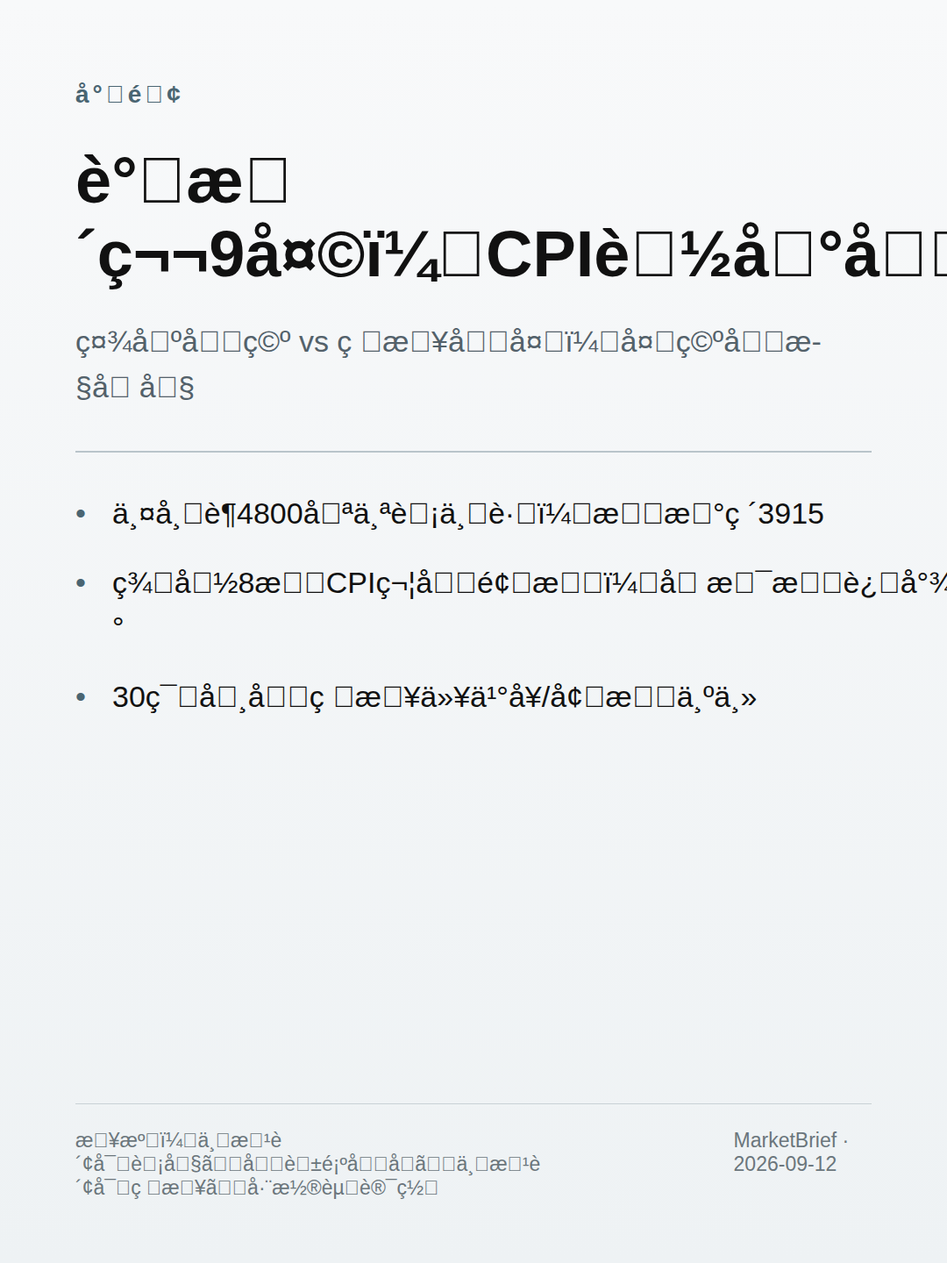
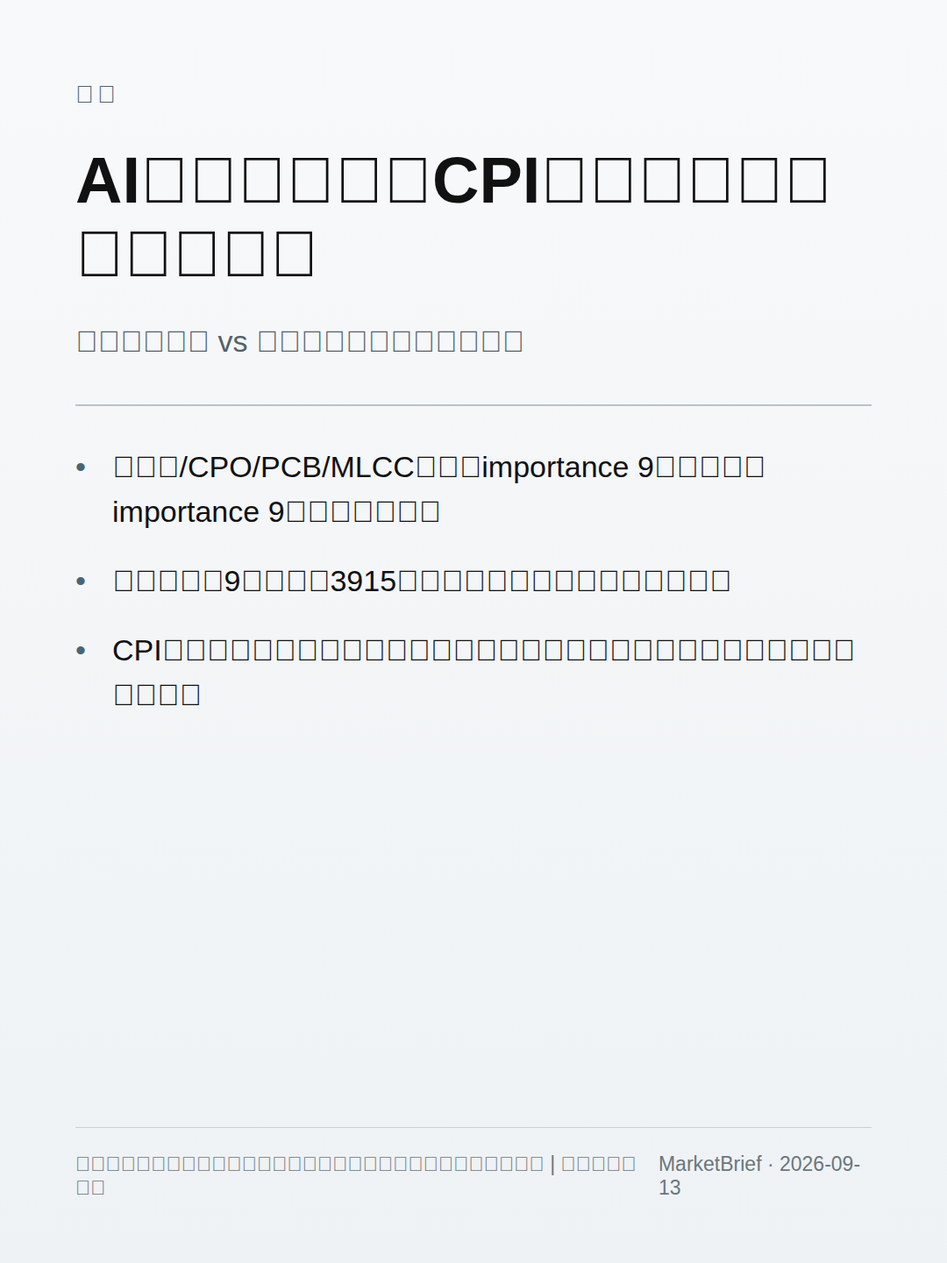
MarketBrief: refresh generated content

diff --git a/output/market-brief/cards/04.html b/output/market-brief/cards/04.html
@@ -2,4 +2,4 @@
 *{box-sizing:border-box}html,body{margin:0;width:1080px;height:1440px;background:#f5f6f7;color:#111;font-family:-apple-system,BlinkMacSystemFont,'Segoe UI','Noto Sans CJK SC','Microsoft YaHei',sans-serif}
 main{width:1080px;height:1440px;padding:92px 86px 72px;display:flex;flex-direction:column;background:linear-gradient(180deg,#f8f9fa,#eef2f4)}
 .k{font-size:28px;letter-spacing:4px;color:#4A6572;font-weight:700;margin-bottom:40px}h1{font-size:74px;line-height:1.14;margin:0 0 30px}.s{font-size:34px;line-height:1.55;color:#53616a;margin-bottom:46px}.r{height:2px;background:#b9c4ca;margin-bottom:44px}ul{list-style:none;padding:0;margin:0;display:grid;gap:28px}li{font-size:34px;line-height:1.5;padding-left:42px;position:relative}li:before{content:'•';position:absolute;left:0;color:#4A6572}.sp{flex:1}footer{border-top:1px solid #c9d1d5;padding-top:28px;color:#6b767c;font-size:23px;display:flex;justify-content:space-between;gap:24px}
-</style></head><body><main><div class="k">äºå®ä¸åæ§</div><h1>CPIç¬¦åé¢æï¼ä½&#x27;ä¿®å¤çªå£&#x27;æ¯äºå®è¿æ¯è§ç¹ï¼</h1><div class="s">CPIæ°æ®ä¸ºå®¢è§äºå®ï¼&#x27;ä¿®å¤çªå£&#x27;å¤æå±ç¤¾åºè§ç¹</div><div class="r"></div><ul><li>CPIæ°æ®ç¬¦åå¸åºé¢æï¼è·¨æ¥æºéªè¯ï¼</li><li>ç¤¾åºè®¤ä¸ºå æ¯è½å°åæè¿ä¿®å¤çªå£</li><li>å®è§æ°æ®ä¼ å¯¼åå¨æ¶æ»ï¼éæ´å¤å¬ååéå</li></ul><div class="sp"></div><footer><span>æ¥æºï¼ä¸æ¹è´¢å¯è¡å§ãåè±é¡ºåå | äºå®ä¸è§ç¹éåºå</span><span>MarketBrief · 2026-09-12</span></footer></main></body></html>
+</style></head><body><main><div class="k">事实与分歧</div><h1>CPI靴子：社区与机构的解读温差</h1><div class="s">同一数据，两种解读，短期方向的关键变量</div><div class="r"></div><ul><li>社区（东财股吧）：CPI符合预期但美长债收益率创逾18年新高，中性</li><li>社区（同花顺圈子）：加息落地后短期无估值压制因素，或迎修复窗口，中性</li><li>策略研报：输入性通胀回升，欧央行启动加息，importance 9偏空</li><li>分歧核心：社区认为靴子落地利空出尽，策略研报认为输入性通胀持续压制</li><li>事实锚点：巨潮资讯网9月12日公告——*ST禾信重组、恺英网络参股Wemade、翱捷科技H股申请、中微公司高管减持</li></ul><div class="sp"></div><footer><span>来源：东财股吧、同花顺圈子、东财策略研报、巨潮资讯网 | 公告为标题级信息，未读取PDF正文，无法判断具体细节</span><span>MarketBrief · 2026-09-13</span></footer></main></body></html>

diff --git a/output/market-brief/cards/05.html b/output/market-brief/cards/05.html
@@ -2,4 +2,4 @@
 *{box-sizing:border-box}html,body{margin:0;width:1080px;height:1440px;background:#f5f6f7;color:#111;font-family:-apple-system,BlinkMacSystemFont,'Segoe UI','Noto Sans CJK SC','Microsoft YaHei',sans-serif}
 main{width:1080px;height:1440px;padding:92px 86px 72px;display:flex;flex-direction:column;background:linear-gradient(180deg,#f8f9fa,#eef2f4)}
 .k{font-size:28px;letter-spacing:4px;color:#4A6572;font-weight:700;margin-bottom:40px}h1{font-size:74px;line-height:1.14;margin:0 0 30px}.s{font-size:34px;line-height:1.55;color:#53616a;margin-bottom:46px}.r{height:2px;background:#b9c4ca;margin-bottom:44px}ul{list-style:none;padding:0;margin:0;display:grid;gap:28px}li{font-size:34px;line-height:1.5;padding-left:42px;position:relative}li:before{content:'•';position:absolute;left:0;color:#4A6572}.sp{flex:1}footer{border-top:1px solid #c9d1d5;padding-top:28px;color:#6b767c;font-size:23px;display:flex;justify-content:space-between;gap:24px}
-</style></head><body><main><div class="k">ç»è®ºä¸é£é©</div><h1>å¤ç©ºåæ§ææ¾ï¼å³æ³¨èµéæµåä¸æ¿çéå</h1><div class="s">ç¤¾åºåç©ºãç æ¥åå¤ï¼CPIä¸ºå®è§éç¹ä½ä¼ å¯¼éè§å¯</div><div class="r"></div><ul><li>å³æ³¨CPIè½å°åå®éèµéæµå¥æåµ</li><li>å³æ³¨AIç¡¬ä»¶æ¿ååååçä¸»çº¿éæ©</li><li>å³æ³¨ä¸æ¥ä¸ç»©é«å¢æ¿åçæç»æ§éªè¯</li></ul><div class="sp"></div><footer><span>é£é©æç¤ºï¼æ¬æä¸æææèµå»ºè®®ï¼å¸åºæé£é©ï¼æèµéè°¨æ</span><span>MarketBrief · 2026-09-12</span></footer></main></body></html>
+</style></head><body><main><div class="k">结论与风险</div><h1>短期情绪与中期业绩的权重之争</h1><div class="s">AI硬件链偏多信号强但外部风险未消，风格再平衡窗口待验证</div><div class="r"></div><ul><li>偏多信号：AI硬件链三源共振、存储提价业绩超预期、低位板块补涨逻辑成立</li><li>偏空信号：CPI输入性通胀回升、指数调整第9天情绪低迷、美国AI限制再收紧</li><li>关键分歧：CPI解读方向相反、研报样本偏多缺乏对照、科士达帖软文嫌疑</li><li>事实锚点：巨潮资讯网公告为标题级信息，*ST禾信重组存在审批不确定性</li><li>风险提示：社区来源为主观情绪非机构研报，研报仅含摘要标题无正文数据，部分帖子日期为2023年时效性需确认</li></ul><div class="sp"></div><footer><span>来源：全部7个来源 | 本文不构成任何投资建议，股市有风险，投资需谨慎</span><span>MarketBrief · 2026-09-13</span></footer></main></body></html>

diff --git a/output/market-brief/cards/03.html b/output/market-brief/cards/03.html
@@ -2,4 +2,4 @@
 *{box-sizing:border-box}html,body{margin:0;width:1080px;height:1440px;background:#f5f6f7;color:#111;font-family:-apple-system,BlinkMacSystemFont,'Segoe UI','Noto Sans CJK SC','Microsoft YaHei',sans-serif}
 main{width:1080px;height:1440px;padding:92px 86px 72px;display:flex;flex-direction:column;background:linear-gradient(180deg,#f8f9fa,#eef2f4)}
 .k{font-size:28px;letter-spacing:4px;color:#4A6572;font-weight:700;margin-bottom:40px}h1{font-size:74px;line-height:1.14;margin:0 0 30px}.s{font-size:34px;line-height:1.55;color:#53616a;margin-bottom:46px}.r{height:2px;background:#b9c4ca;margin-bottom:44px}ul{list-style:none;padding:0;margin:0;display:grid;gap:28px}li{font-size:34px;line-height:1.5;padding-left:42px;position:relative}li:before{content:'•';position:absolute;left:0;color:#4A6572}.sp{flex:1}footer{border-top:1px solid #c9d1d5;padding-top:28px;color:#6b767c;font-size:23px;display:flex;justify-content:space-between;gap:24px}
-</style></head><body><main><div class="k">ç æ¥</div><h1>30ç¯ç æ¥å¯éçå¤ï¼ä¸æ¥ä¸ç»©é«å¢æä¸»çº¿</h1><div class="s">æµ·å¤æ©å¼ ãAIæ¶²å·ãæ°è½æºçµæ± ãåå·¥æ°æææ¯æ°å»¶ç»</div><div class="r"></div><ul><li>æ¯äºè¿ªãæ³å·¥çå¼ºè°æµ·å¤æ¶å¥å¿«éå¢é¿</li><li>è±ç»´åè¡ææ¿å±å½°æ¾æ¶²å·é¾å¤´ä¿¡å¿</li><li>äº¿çº¬éè½å¨å+å¨è½åºè´§é«å¢</li></ul><div class="sp"></div><footer><span>æ¥æºï¼ä¸æ¹è´¢å¯ç æ¥ | è¯çº§éä¸äºä¹°å¥/å¢æï¼åå¨ä¹è§åå·®</span><span>MarketBrief · 2026-09-12</span></footer></main></body></html>
+</style></head><body><main><div class="k">研报</div><h1>存储提价与风格再平衡：业绩超预期但板块分化</h1><div class="s">视源股份/帝科股份存储放量，低位补涨窗口是否打开</div><div class="r"></div><ul><li>存储提价：视源股份、帝科股份中报提及存储业务快速放量/提价，业绩超预期</li><li>板块分化：风华高科涨停+10%、金安国纪+7.86%，但长鑫科技-0.82%</li><li>风格再平衡：有色、化工、券商、创新药、储能等低位板块有望阶段性补涨</li><li>储能：科士达中报净利增106%-152%，但评论区质疑软文嫌疑</li><li>氟化工：昊华科技景气兑现，永和股份制冷剂高景气+氟聚合物放量</li></ul><div class="sp"></div><footer><span>来源：东财研报聚合页、东财行业研报、雪球、同花顺圈子 | 科士达帖需交叉验证，研报样本偏多缺乏对照</span><span>MarketBrief · 2026-09-13</span></footer></main></body></html>

diff --git a/output/market-brief/cards/02.html b/output/market-brief/cards/02.html
@@ -2,4 +2,4 @@
 *{box-sizing:border-box}html,body{margin:0;width:1080px;height:1440px;background:#f5f6f7;color:#111;font-family:-apple-system,BlinkMacSystemFont,'Segoe UI','Noto Sans CJK SC','Microsoft YaHei',sans-serif}
 main{width:1080px;height:1440px;padding:92px 86px 72px;display:flex;flex-direction:column;background:linear-gradient(180deg,#f8f9fa,#eef2f4)}
 .k{font-size:28px;letter-spacing:4px;color:#4A6572;font-weight:700;margin-bottom:40px}h1{font-size:74px;line-height:1.14;margin:0 0 30px}.s{font-size:34px;line-height:1.55;color:#53616a;margin-bottom:46px}.r{height:2px;background:#b9c4ca;margin-bottom:44px}ul{list-style:none;padding:0;margin:0;display:grid;gap:28px}li{font-size:34px;line-height:1.5;padding-left:42px;position:relative}li:before{content:'•';position:absolute;left:0;color:#4A6572}.sp{flex:1}footer{border-top:1px solid #c9d1d5;padding-top:28px;color:#6b767c;font-size:23px;display:flex;justify-content:space-between;gap:24px}
-</style></head><body><main><div class="k">çç¹</div><h1>å¸åºè°æ´ç¬¬9å¤©ï¼æç»ªä½è¿·</h1><div class="s">è¶4800åªä¸ªè¡ä¸è·ï¼è·åå¢å¤ï¼åå¼¹é ææé</div><div class="r"></div><ul><li>ä¸¤å¸æäº¤é¢1.97ä¸äº¿ï¼è¾åæ¥æ¾é3248äº¿</li><li>å®¹éçåä½ï¼ç§æè¡å±é¨æ±å¢</li><li>ç¤¾åºæç»ªåç©ºï¼æè¿°ä¸º&#x27;æç»ªä½æ´¼&#x27;</li></ul><div class="sp"></div><footer><span>æ¥æºï¼åè±é¡ºååãä¸æ¹è´¢å¯è¡å§ | ç¤¾åºè§ç¹ï¼éæèµå»ºè®®</span><span>MarketBrief · 2026-09-12</span></footer></main></body></html>
+</style></head><body><main><div class="k">热点</div><h1>AI硬件链：三源共振的偏多信号</h1><div class="s">FCC靴子落地+电子布提价+MLCC供需缺口，中报催化后轮动窗口</div><div class="r"></div><ul><li>东财股吧：光通信/光模块importance 9偏多，FCC靴子落地缓解担忧</li><li>雪球：CPO板块热度标签明确，中际旭创热度813、长飞光纤+8.78%</li><li>同花顺圈子：PCB/MLCC/光模块轮动活跃，中报业绩催化后核心标的或迎上车机会</li><li>研报端：顺络电子TLVR电感、英维克液冷、用友网络AI研发均获偏多评级</li><li>分歧：策略研报指出美国对中国AI限制再收紧，AI链涨价推动价格数据回升</li></ul><div class="sp"></div><footer><span>来源：东财股吧、雪球、同花顺圈子、东财研报聚合页、东财行业研报 | 研报样本均为买入/增持，存在样本偏差</span><span>MarketBrief · 2026-09-13</span></footer></main></body></html>

diff --git a/output/market-brief/cards/01.html b/output/market-brief/cards/01.html
@@ -2,4 +2,4 @@
 *{box-sizing:border-box}html,body{margin:0;width:1080px;height:1440px;background:#f5f6f7;color:#111;font-family:-apple-system,BlinkMacSystemFont,'Segoe UI','Noto Sans CJK SC','Microsoft YaHei',sans-serif}
 main{width:1080px;height:1440px;padding:92px 86px 72px;display:flex;flex-direction:column;background:linear-gradient(180deg,#f8f9fa,#eef2f4)}
 .k{font-size:28px;letter-spacing:4px;color:#4A6572;font-weight:700;margin-bottom:40px}h1{font-size:74px;line-height:1.14;margin:0 0 30px}.s{font-size:34px;line-height:1.55;color:#53616a;margin-bottom:46px}.r{height:2px;background:#b9c4ca;margin-bottom:44px}ul{list-style:none;padding:0;margin:0;display:grid;gap:28px}li{font-size:34px;line-height:1.5;padding-left:42px;position:relative}li:before{content:'•';position:absolute;left:0;color:#4A6572}.sp{flex:1}footer{border-top:1px solid #c9d1d5;padding-top:28px;color:#6b767c;font-size:23px;display:flex;justify-content:space-between;gap:24px}
-</style></head><body><main><div class="k">å°é¢</div><h1>è°æ´ç¬¬9å¤©ï¼CPIè½å°åè½å¦è¿æ¥ä¿®å¤çªå£ï¼</h1><div class="s">ç¤¾åºåç©º vs ç æ¥åå¤ï¼å¤ç©ºåæ§å å§</div><div class="r"></div><ul><li>ä¸¤å¸è¶4800åªä¸ªè¡ä¸è·ï¼ææ°ç ´3915</li><li>ç¾å½8æCPIç¬¦åé¢æï¼å æ¯æè¿å°¾å£°</li><li>30ç¯å¸åç æ¥ä»¥ä¹°å¥/å¢æä¸ºä¸»</li></ul><div class="sp"></div><footer><span>æ¥æºï¼ä¸æ¹è´¢å¯è¡å§ãåè±é¡ºååãä¸æ¹è´¢å¯ç æ¥ãå·¨æ½®èµè®¯ç½</span><span>MarketBrief · 2026-09-12</span></footer></main></body></html>
+</style></head><body><main><div class="k">封面</div><h1>AI硬件链热捧与CPI靴子：社区与机构的温差</h1><div class="s">三源共振偏多 vs 策略研报偏空，温差有多大</div><div class="r"></div><ul><li>光模块/CPO/PCB/MLCC：社区importance 9偏多，研报importance 9偏多，三源一致</li><li>指数调整第9天，跌破3915点，社区焦虑与策略研报偏空共振</li><li>CPI解读方向相反：社区认为靴子落地利空出尽，策略研报认为输入性通胀持续压制</li></ul><div class="sp"></div><footer><span>来源：东财股吧、雪球、同花顺圈子、东财研报聚合页、东财策略研报 | 不构成投资建议</span><span>MarketBrief · 2026-09-13</span></footer></main></body></html>

diff --git a/output/market-brief/latest.md b/output/market-brief/latest.md
@@ -1,55 +1,56 @@
-# è°æ´ç¬¬9å¤©ï¼CPIè½å°åå¸åºè½å¦è¿æ¥ä¿®å¤çªå£ï¼
+# AI硬件链热捧与CPI靴子：社区与机构的温差有多大
 
-> ä¸¤å¸è¶4800åªä¸ªè¡ä¸è·ï¼ææ°è·ç ´3915ç¹ï¼è°æ´è¿å¥ç¬¬9å¤©ãç¾å½8æCPIç¬¦åé¢æï¼è¢«è§ä¸ºå æ¯æåä¸åæ¼å¾ãAIç¡¬ä»¶æ¿åè½®å¨æ´»è·ä½åæ§å å¤§ï¼30ç¯å¸åç æ¥ä»¥ä¹°å¥/å¢æä¸ºä¸»ãç¤¾åºæç»ªåè°¨æï¼ç æ¥è§ç¹åä¹è§ï¼å¤ç©ºåæ§ææ¾ã
+> 光模块、CPO、存储提价三箭齐发，三大社区来源与近60篇研报一致看多AI硬件链；但策略研报对CPI与加息预期保持警惕，社区情绪与机构判断出现明显分化。指数调整第9天，风格再平衡窗口是否打开？
 
-## å¸åºç°ç¶ï¼è°æ´ç¬¬9å¤©ï¼æç»ªä½è¿·
+## 一、AI硬件链：三源共振的偏多信号
 
-æªè³ææ°äº¤ææ¥ï¼ä¸¤å¸è¶4800åªä¸ªè¡ä¸è·ï¼ææ°è·ç ´3915ç¹ï¼è°æ´è¿å¥ç¬¬9å¤©ãè·åæ°éå¢å¤ï¼åå¼¹ä¸»è¦é ææéè¡å®ç°ï¼å®¹éçææ¾éä½ãä¸¤å¸æäº¤é¢1.97ä¸äº¿åï¼è¾åæ¥æ¾é3248äº¿åï¼Windæ°æ®ï¼ï¼ä½ç¼©éèæ¯ä¸å®¹éçåä½ï¼ç§æè¡å±é¨æ±å¢ç¹å¾ææ¾ã
+光通信与CPO板块是当前社区与研报端最一致的偏多方向。东财股吧将光通信/光模块列为importance 9的偏多主题，信号包括FCC靴子落地缓解担忧、电子布提价加速、MLCC供需缺口延续。雪球热股榜上CPO板块热度标签明确出现，中际旭创热度813排第十，长飞光纤涨8.78%。同花顺圈子同样给出importance 9的偏多判断，PCB、MLCC、光模块等AI硬件方向轮动活跃。
 
-ç¤¾åºæç»ªæ®éåç©ºï¼æèµèæè¿°ä¸º'æç»ªä½æ´¼'ãé¨åæé¡¾æåºï¼é«ä½ç§æè¡è¿å¥éè¡ååé¶æ®µï¼æè²éå±ãåå·¥ãå¸åãåæ°è¯ãå¨è½çè¢«éææ¿åææé¶æ®µæ§è¡¥æ¶¨ã
+研报端同样聚焦。东财研报聚合页29篇个股研报中，顺络电子TLVR电感与钽电容构筑AI增量、英维克液冷龙头股权激励、用友网络加大AI研发均获偏多评级。行业研报30篇中，AI与智能科技方向importance 9偏多，AI模型密集迭代价格下行、办公应用起量、AI驱动SDLC安全生态构建。
 
-## å®è§éç¹ï¼CPIç¬¦åé¢æï¼å æ¯å¨ææè¿å°¾å£°
+但需注意：策略研报指出美国对中国AI限制再收紧，AI链涨价推动价格数据回升，这与社区偏多形成分歧。研报样本均为买入/增持，缺乏中性或偏空观点，存在样本偏差。
 
-ç¾å½8æCPIæ°æ®ç¬¦åå¸åºé¢æï¼è¢«ç¤¾åºè§ä¸ºå æ¯ç'æåä¸åæ¼å¾'ãå¤å®¶æé¡¾è®¤ä¸ºï¼å æ¯è½å°åçæä¼°å¼åå¶æ¶é¤ï¼å¸åºæè¿æ¥ä¿®å¤çªå£ã
+## 二、大盘情绪：社区焦虑与研报谨慎的共振
 
-éè¦æåºçæ¯ï¼CPIæ°æ®æ¬èº«ä¸ºå®¢è§äºå®ï¼ä½'ä¿®å¤çªå£'çå¤æå±äºç¤¾åºè§ç¹ï¼å¹¶éç¡®å®æ§ç»è®ºãå®è§æ°æ®å¯¹å¸åºçä¼ å¯¼åå¨æ¶æ»ï¼ä¸å¸åºæç»ªä¿®å¤éè¦æ´å¤å¬ååéåã
+指数调整已进入第9天，跌破前低3915点。东财股吧多帖反映焦虑沮丧，高价股补跌拖累股指，恒生超预期下跌。同花顺圈子指出反弹靠权重托但情绪未好转，跌停数量增多，横竖操作难度大。策略研报同样给出偏空信号：三大指数收绿，两市不足千家上涨，等待外部靴子落地。
 
-## æ¿åè½®å¨ï¼AIç¡¬ä»¶æ´»è·ä½åæ§å å¤§
+然而研报端中报业绩偏多——全A盈利加速上行，科技与资源景气引领，港股业绩改善幅度较大。策略端讨论哑铃策略持续性，分歧在于短期情绪与中期业绩的权重。
 
-AIç¡¬ä»¶æ¿åè½®å¨æ´»è·ï¼PCBãMLCCãCPOãåäºè¿çåæ¯äº¤æ¿æ´»è·ï¼é¨åä¸ªè¡æ¶¨åãä½åååå¼¹ååæ§å å¤§ï¼é«ä½ç§æè¡è¿å¥éè¡ååé¶æ®µã
+## 三、存储提价：业绩超预期但板块分化
 
-ç æ¥ç«¯åçå¥½AIæ¶²å·åºç¡è®¾æ½å éè½å°ãè±ç»´ååå¸è¡ææ¿å±å½°æ¾æ¶²å·é¾å¤´ä¿¡å¿ï¼äºæ´èªæ§æ¶²å·éè´è½å°ï¼åéè¯å¸çå¥½AIç åå¸å±ãç¤¾åºçååãç æ¥çæ¶²å·å éï¼å¯¹AIç¡¬ä»¶åé¨ç»æå¤æåå¨ä¸ä¸è´ã
+视源股份、帝科股份中报均提及存储业务快速放量/提价，业绩超预期。雪球半导体/存储板块出现分化：风华高科涨停+10%、金安国纪+7.86%，但长鑫科技-0.82%。存储提价的持续性缺乏产业链验证，板块内部分化值得关注。
 
-## ç æ¥è§ç¹ï¼30ç¯å¯éçå¤ï¼ä¸æ¥ä¸ç»©é«å¢æä¸»çº¿
+## 四、CPI靴子：社区与机构的解读温差
 
-2026å¹´9æ11æ¥ï¼ä¸æ¹è´¢å¯ç æ¥é¡µé¢åå¸30ç¯å¸åç æ¥ï¼ç»å¤§å¤æ°ç»åºä¹°å¥/å¢æè¯çº§ãæ é¢å¤å«'ä¸ç»©é«å¢''éå©é½å''çå©æ¹å'çè¡¨è¿°ã
+8月CPI数据公布后，社区与机构出现明显分歧。东财股吧认为CPI符合预期但美长债收益率创逾18年新高，给出中性判断。同花顺圈子认为加息落地后短期将无估值压制因素，市场或迎修复窗口，同样中性。但策略研报给出importance 9的偏空信号：输入性通胀回升，欧央行启动加息。
 
-æµ·å¤ä¸å¡æ©å¼ æä¸ºä¸»çº¿ï¼æ¯äºè¿ªãæ³å·¥ãç¨åç½ç»ãåº·è¯ºçç©ãä¸è¿æµ·ç¹çå¤ç¯æ¥åå¼ºè°æµ·å¤æ¶å¥å¿«éå¢é¿ï¼æ±½è½¦åºå£é«æ¯æ°ãæ°è½æºçµæ± äº§ä¸é¾æ¯æ°å»¶ç»ï¼äº¿çº¬éè½å¨å+å¨è½åºè´§é«å¢ï¼æ©æ·è¡ä»½éèå©æ¶¦åå¥½ãåå·¥æ°æææ¿åæ¯æ°åç°ï¼å£åç§ææ°åå·¥æ¯æ°åç°ï¼æ°¸åè¡ä»½å¶å·åé«æ¯æ°+æ°èåç©æ¾éã
+对CPI的解读方向相反——社区认为靴子落地后利空出尽，策略研报认为输入性通胀回升构成持续压制。这一分歧是短期市场方向的关键变量。
 
-ä½éæ³¨æï¼è¯çº§éä¸äºä¹°å¥/å¢æï¼åå¨åæ¹é¢ä¹è§åå·®ï¼ä¸æªåå«ç¤¾åºæç»ªä¸å®æ¹å¬åçäº¤åéªè¯ã
+## 五、风格再平衡：低位补涨窗口是否打开
 
-## å¬åå¨æï¼*STå¯ä¿¡éç»ãä¸å¾®å¬å¸åæ
+同花顺圈子指出低位优质传统行业逆市上涨，业绩正增长的有色、化工、券商、创新药、储能等有望阶段性补涨。东财股吧将储能板块列为importance 7偏多，科士达中报净利同比增106%-152%被称下一个宁德时代。但评论区质疑软文嫌疑，需交叉验证。
 
-å·¨æ½®èµè®¯ç½2026å¹´9æ12æ¥å¬åæ±æ»æ¾ç¤ºï¼*STå¯ä¿¡å¯éæ«é²å®¡è®¡ãè¯ä¼°ãé®è¯¢åå¤ãç¬ç«è´¢å¡é¡¾é®çå¤ä»½æä»¶ï¼æ¨è¿æ¶è´ä¸æµ·éè®¯ææ¯å¹¶åééå¥èµéãä¸å¾®å¬å¸è£äºé«ç®¡åæç»æå¬åï¼ä¸å¬æè²é¨åè£äºé«ç®¡åæ ¸å¿éª¨å¹²å¢æè®¡åæ¶é´è¿åè¿å±å¬åã
+研报端同样偏多：恩捷股份隔膜盈利能力持续向好，亿纬锂能动力+储能出货高增，昊华科技氟化工景气兑现，永和股份制冷剂高景气+氟聚合物放量。但研报样本偏多，缺乏中性或偏空对照。
 
-*STå¯ä¿¡ä¸ºSTè¡ï¼éç»åå¨ä¸ç¡®å®æ§ãé¨åå¬åä¸ºç¨åºæ§æä»¶ï¼æ³å¾æè§ä¹¦ãèªæ¥æ¥åï¼ï¼ä¿¡æ¯å«éæéã
+## 六、事实锚点与不确定性
 
-## å¤ç©ºåæ§ï¼ç¤¾åºåç©º vs ç æ¥åå¤
+巨潮资讯网9月12日公告显示：*ST禾信推进重大资产重组，恺英网络拟间接参股韩国Wemade，翱捷科技递交H股上市申请，映翰通完成限制性股票首次授予，中公教育管理层增持计划时间过半，中微公司董事及高管减持股份。这些为公告标题级信息，未读取PDF正文，无法判断具体交易金额、估值、业绩承诺等关键细节。
 
-å½åå¸åºåç°ææ¾çå¤ç©ºåæ§ï¼ç¤¾åºæç»ªåç©ºï¼æè¿°ä¸º'æç»ªä½æ´¼'ã'å®¹éçåä½'ï¼ç æ¥è§ç¹åå¤ï¼30ç¯ç æ¥ä»¥ä¹°å¥/å¢æä¸ºä¸»ãCPIæ°æ®ç¬¦åé¢æä¸ºè·¨æ¥æºéªè¯çå®è§éç¹ï¼ä½è½å¦è½¬åä¸ºå¸åºä¿®å¤å¨åï¼ä»éè§å¯åç»èµéæµåä¸æ¿çéåã
-
-å»ºè®®æèµèå³æ³¨ï¼1ï¼CPIè½å°åå®éèµéæµå¥æåµï¼2ï¼AIç¡¬ä»¶æ¿ååååçä¸»çº¿éæ©ï¼3ï¼ä¸æ¥ä¸ç»©é«å¢æ¿åçæç»æ§éªè¯ã
+中微公司高管减持为偏空信号（importance 4），*ST禾信重组存在审批不确定性。
 
 ## 来源
 
 - [eastmoney-hot](https://hfmgb.eastmoney.com/) · community
+- [xueqiu-hot](https://xueqiu.com/hot/stock) · community
 - [10jqka-community](https://t.10jqka.com.cn/) · community
 - [eastmoney-report](https://data.eastmoney.com/report/) · research
+- [eastmoney-industry](https://data.eastmoney.com/report/industry.jshtml) · research
+- [eastmoney-strategy](https://data.eastmoney.com/report/strategyreport.jshtml) · research
 - [cninfo](https://www.cninfo.com.cn/new/index) · official
 
 ---
 
-æ¬æä»ä¸ºå¸åºä¿¡æ¯æ±æ»ä¸åæï¼ä¸ææä»»ä½æèµå»ºè®®ãç¤¾åºè§ç¹ä¸ºä¸ªäººæé¡¾æè§ï¼éå®æ¹ç æ¥ï¼ä¸æææèµå»ºè®®ãç æ¥è¯çº§åå¨åæ¹é¢ä¹è§åå·®ãSTè¡éç»åå¨ä¸ç¡®å®æ§ãå¸åºæé£é©ï¼æèµéè°¨æã
+本文基于公开社区讨论与研报摘要标题整理，社区来源为主观情绪，非机构研报；研报仅含摘要标题，无正文数据，无法验证具体业绩数字；研报评级均为买入/增持，缺乏中性或偏空观点，存在样本偏差；部分帖子日期为2023年，时效性需确认；科士达帖评论区质疑软文嫌疑，需交叉验证。本文不构成任何投资建议，股市有风险，投资需谨慎。
 
-生成时间：2026-09-12T13:44:31+00:00  
-模型：`SenseNova` · 调用 6 次 · Token 28032
+生成时间：2026-09-13T02:38:19+00:00  
+模型：`SenseNova` · 调用 8 次 · Token 31914
